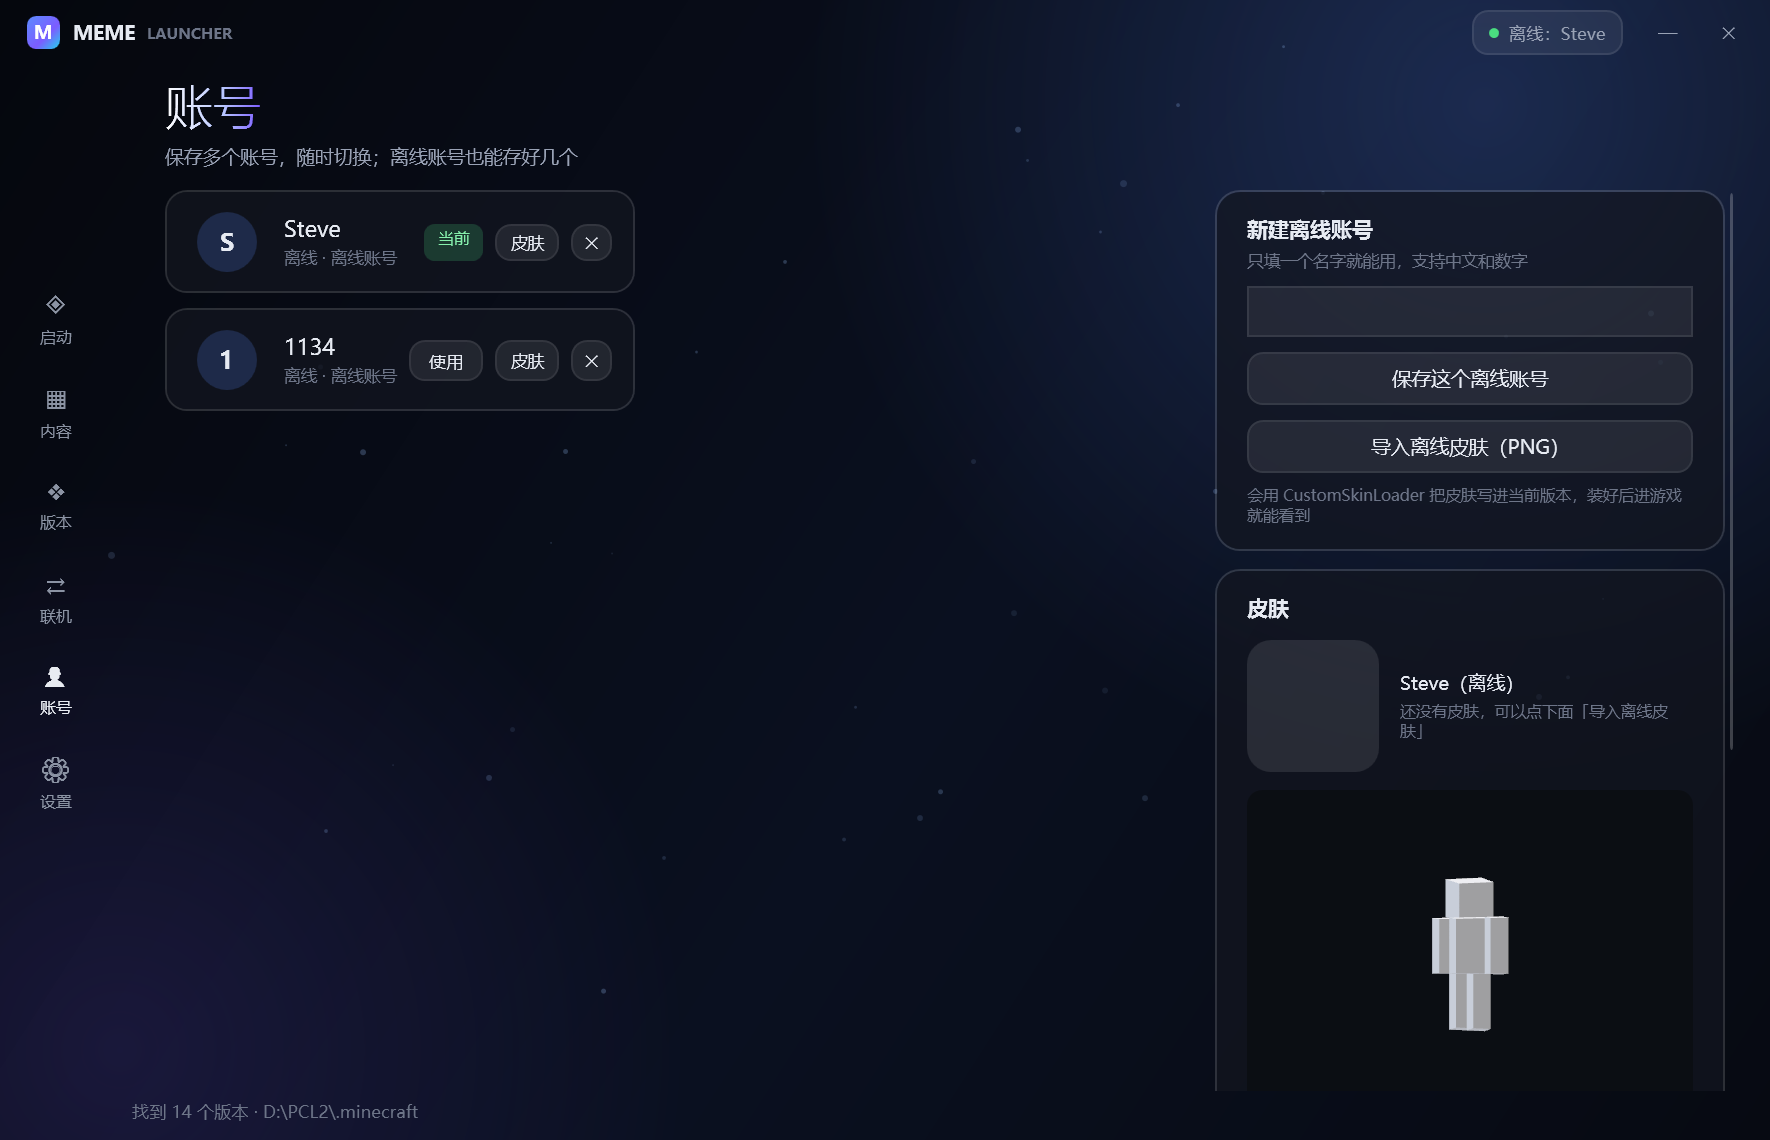
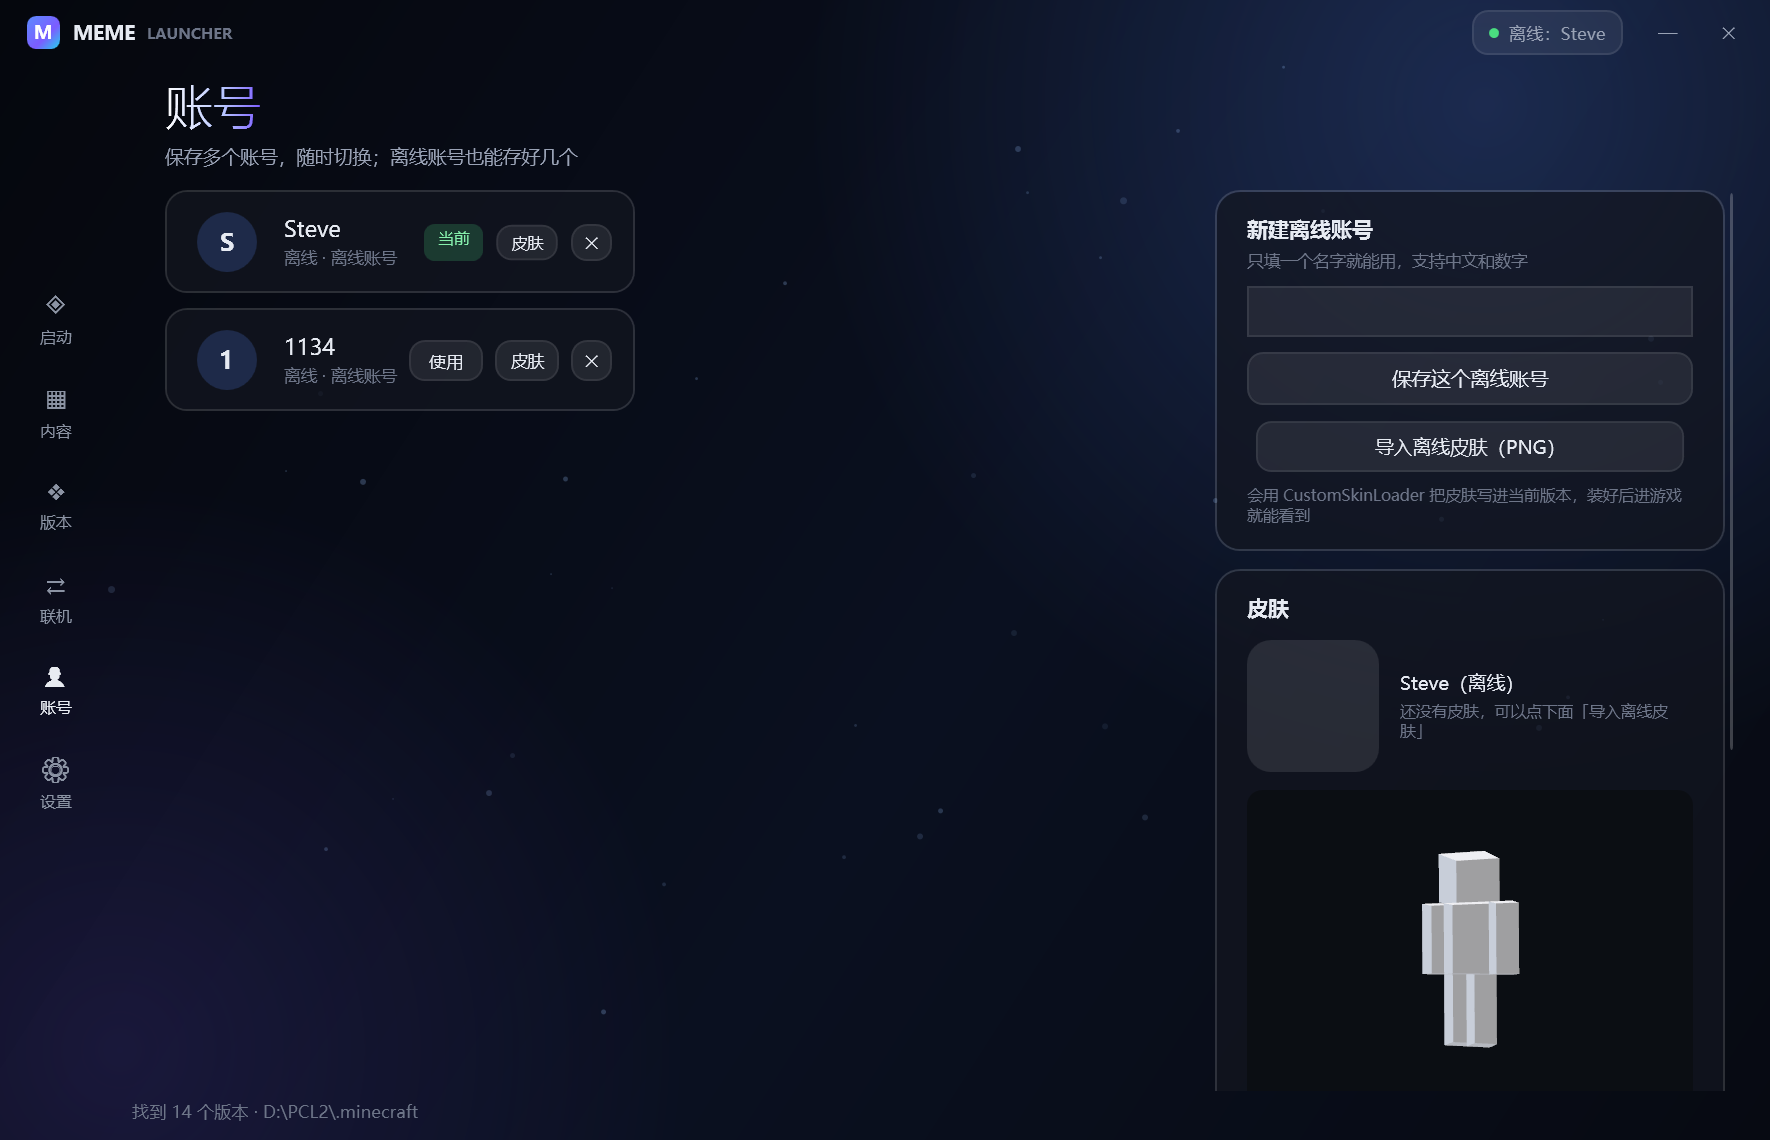
feat: 皮肤第二层（帽子/外套/袖子/裤子）+ Alex 细手臂 UV + 待机浮动与摇摆动画

Changed region(s): [[0.7768, 0.7368, 0.8701, 0.9211], [0.7768, 0.3684, 0.9011, 0.3991]]

diff --git a/src/Aurora.App/SkinModel3D.cs b/src/Aurora.App/SkinModel3D.cs
@@ -22,13 +22,37 @@ internal sealed class SkinModel3D
 
         // 关键：整体下移，让模型以 (0,0,0) 为中心
         group.Children.Add(Box(new Rect3(0, 4, 0, HeadSize, HeadSize, HeadSize), material, HeadFaces));
+
+        // 帽子层（透明覆盖，只有皮肤带 hats 才有内容）
+        if (skin != null)
+        {
+            var overlay = OverlayMaterial(skin);
+            var pad = 0.6;
+
+            group.Children.Add(Box(new Rect3(0, 4, 0, HeadSize + pad, HeadSize + pad, HeadSize + pad),
+                overlay, HatFaces));
+
+            group.Children.Add(Box(new Rect3(0, -6, 0, BodyWidth + pad, BodyHeight + pad, LimbDepth + pad),
+                overlay, JacketFaces));
+
+            var armW = slim ? 3.0 : 4.0;
+            var sleeve = slim ? SlimSleeveFaces : SleeveFaces;
+            group.Children.Add(Box(new Rect3(-(BodyWidth / 2 + armW / 2), -6, 0, armW + pad, BodyHeight + pad, LimbDepth + pad),
+                overlay, sleeve));
+            group.Children.Add(Box(new Rect3(BodyWidth / 2 + armW / 2, -6, 0, armW + pad, BodyHeight + pad, LimbDepth + pad),
+                overlay, sleeve));
+
+            group.Children.Add(Box(new Rect3(-2, -18, 0, 4 + pad, BodyHeight + pad, LimbDepth + pad), overlay, PantFaces));
+            group.Children.Add(Box(new Rect3(2, -18, 0, 4 + pad, BodyHeight + pad, LimbDepth + pad), overlay, PantFaces));
+        }
         group.Children.Add(Box(new Rect3(0, -6, 0, BodyWidth, BodyHeight, LimbDepth), material, BodyFaces));
 
         var armWidth = slim ? 3.0 : 4.0;
+        var armFaces = slim ? SlimArmFaces : ArmFaces;
         group.Children.Add(Box(new Rect3(-(BodyWidth / 2 + armWidth / 2), -6, 0, armWidth, BodyHeight, LimbDepth),
-            material, ArmFaces));
+            material, armFaces));
         group.Children.Add(Box(new Rect3(BodyWidth / 2 + armWidth / 2, -6, 0, armWidth, BodyHeight, LimbDepth),
-            material, ArmFaces));
+            material, armFaces));
 
         group.Children.Add(Box(new Rect3(-2, -18, 0, 4, BodyHeight, LimbDepth), material, RightLegFaces));
         group.Children.Add(Box(new Rect3(2, -18, 0, 4, BodyHeight, LimbDepth), material, LeftLegFaces));
@@ -64,6 +88,46 @@ internal sealed class SkinModel3D
         new(16, 0, 8, 8),   // bottom
     };
 
+    private static readonly Rect[] HatFaces =
+    {
+        new(40, 8, 8, 8),
+        new(48, 8, 8, 8),
+        new(56, 8, 8, 8),
+        new(32, 8, 8, 8),
+        new(40, 0, 8, 8),
+        new(48, 0, 8, 8),
+    };
+
+    private static readonly Rect[] JacketFaces =
+    {
+        new(20, 36, 8, 12),
+        new(28, 36, 4, 12),
+        new(32, 36, 8, 12),
+        new(16, 36, 4, 12),
+        new(20, 32, 8, 4),
+        new(28, 32, 8, 4),
+    };
+
+    private static readonly Rect[] SleeveFaces =
+    {
+        new(44, 36, 4, 12),
+        new(48, 36, 4, 12),
+        new(56, 36, 4, 12),
+        new(40, 36, 4, 12),
+        new(44, 32, 4, 4),
+        new(48, 32, 4, 4),
+    };
+
+    private static readonly Rect[] PantFaces =
+    {
+        new(4, 36, 4, 12),
+        new(8, 36, 4, 12),
+        new(12, 36, 4, 12),
+        new(0, 36, 4, 12),
+        new(4, 32, 4, 4),
+        new(8, 32, 4, 4),
+    };
+
     private static readonly Rect[] BodyFaces =
     {
         new(20, 20, 8, 12),
@@ -82,6 +146,16 @@ internal sealed class SkinModel3D
         new(40, 20, 4, 12),
         new(44, 16, 4, 4),
         new(48, 16, 4, 4),
+    };
+
+    private static readonly Rect[] SlimArmFaces =
+    {
+        new(44, 20, 3, 12),
+        new(47, 20, 4, 12),
+        new(55, 20, 3, 12),
+        new(40, 20, 4, 12),
+        new(44, 16, 3, 4),
+        new(47, 16, 3, 4),
     };
 
     private static readonly Rect[] RightLegFaces =
@@ -122,6 +196,33 @@ internal sealed class SkinModel3D
         };
         brush.Freeze();
         return new DiffuseMaterial(brush);
+    }
+
+    private static readonly Rect[] SlimSleeveFaces =
+    {
+        new(44, 36, 3, 12),
+        new(47, 36, 4, 12),
+        new(55, 36, 3, 12),
+        new(40, 36, 4, 12),
+        new(44, 32, 3, 4),
+        new(47, 32, 3, 4),
+    };
+
+    private static Material OverlayMaterial(BitmapSource skin)
+    {
+        var brush = new ImageBrush(skin)
+        {
+            ViewboxUnits = BrushMappingMode.Absolute,
+            Viewbox = new Rect(0, 0, skin.PixelWidth, skin.PixelHeight),
+            Stretch = Stretch.Fill,
+            AlignmentX = AlignmentX.Left,
+            AlignmentY = AlignmentY.Top,
+        };
+        brush.Freeze();
+
+        var group = new MaterialGroup();
+        group.Children.Add(new DiffuseMaterial(brush));
+        return group;
     }
 
     private readonly record struct Rect3(double X, double Y, double Z, double W, double H, double D);

diff --git a/src/Aurora.App/MainWindow.xaml.cs b/src/Aurora.App/MainWindow.xaml.cs
@@ -31,7 +31,7 @@ public partial class MainWindow : Window
     private List<RemoteVersion> _mcVersions = new();
     private ContentItem? _selectedContent;
     private CancellationTokenSource? _loginCts;
-    private const string AppVersion = "0.10.4";
+    private const string AppVersion = "0.11.0";
     private bool _updatesLoaded;
     private ReleaseInfo? _pendingRelease;
     private readonly SakuraFrp _tunnel = new();
@@ -3410,9 +3410,38 @@ public partial class MainWindow : Window
 
         var model = SkinModel3D.Build(skin, _skinSlim);
         _skinRotation = new AxisAngleRotation3D(new Vector3D(0, 1, 0), -20);
+
+        // 待机动画：上下浮动 + 轻微左右摆
+        var bob = new TranslateTransform3D(0, 0, 0);
+        var swayRotation = new AxisAngleRotation3D(new Vector3D(0, 0, 1), 0);
+
         var transform = new Transform3DGroup();
         transform.Children.Add(new RotateTransform3D(_skinRotation));
+        transform.Children.Add(new RotateTransform3D(swayRotation));
+        transform.Children.Add(bob);
         model.Transform = transform;
+
+        var bobAnimation = new System.Windows.Media.Animation.DoubleAnimation(-1.4, 1.4, TimeSpan.FromSeconds(2.2))
+        {
+            AutoReverse = true,
+            RepeatBehavior = System.Windows.Media.Animation.RepeatBehavior.Forever,
+            EasingFunction = new System.Windows.Media.Animation.SineEase
+            {
+                EasingMode = System.Windows.Media.Animation.EasingMode.EaseInOut,
+            },
+        };
+        bob.BeginAnimation(TranslateTransform3D.OffsetYProperty, bobAnimation);
+
+        var swayAnimation = new System.Windows.Media.Animation.DoubleAnimation(-1.8, 1.8, TimeSpan.FromSeconds(3.4))
+        {
+            AutoReverse = true,
+            RepeatBehavior = System.Windows.Media.Animation.RepeatBehavior.Forever,
+            EasingFunction = new System.Windows.Media.Animation.SineEase
+            {
+                EasingMode = System.Windows.Media.Animation.EasingMode.EaseInOut,
+            },
+        };
+        swayRotation.BeginAnimation(AxisAngleRotation3D.AngleProperty, swayAnimation);
 
         AccountSkinViewport.Children.Add(new ModelVisual3D { Content = model });
     }
